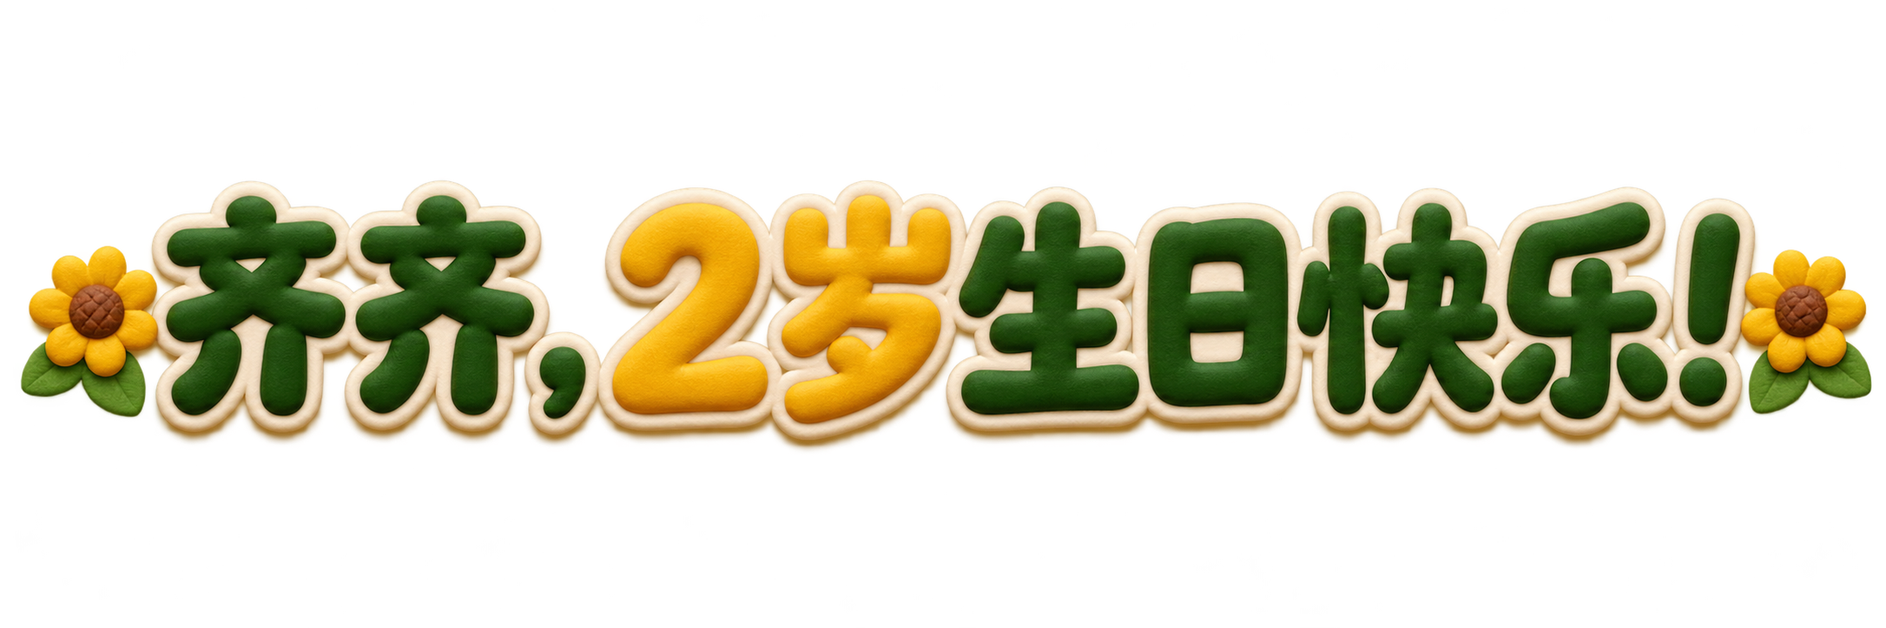
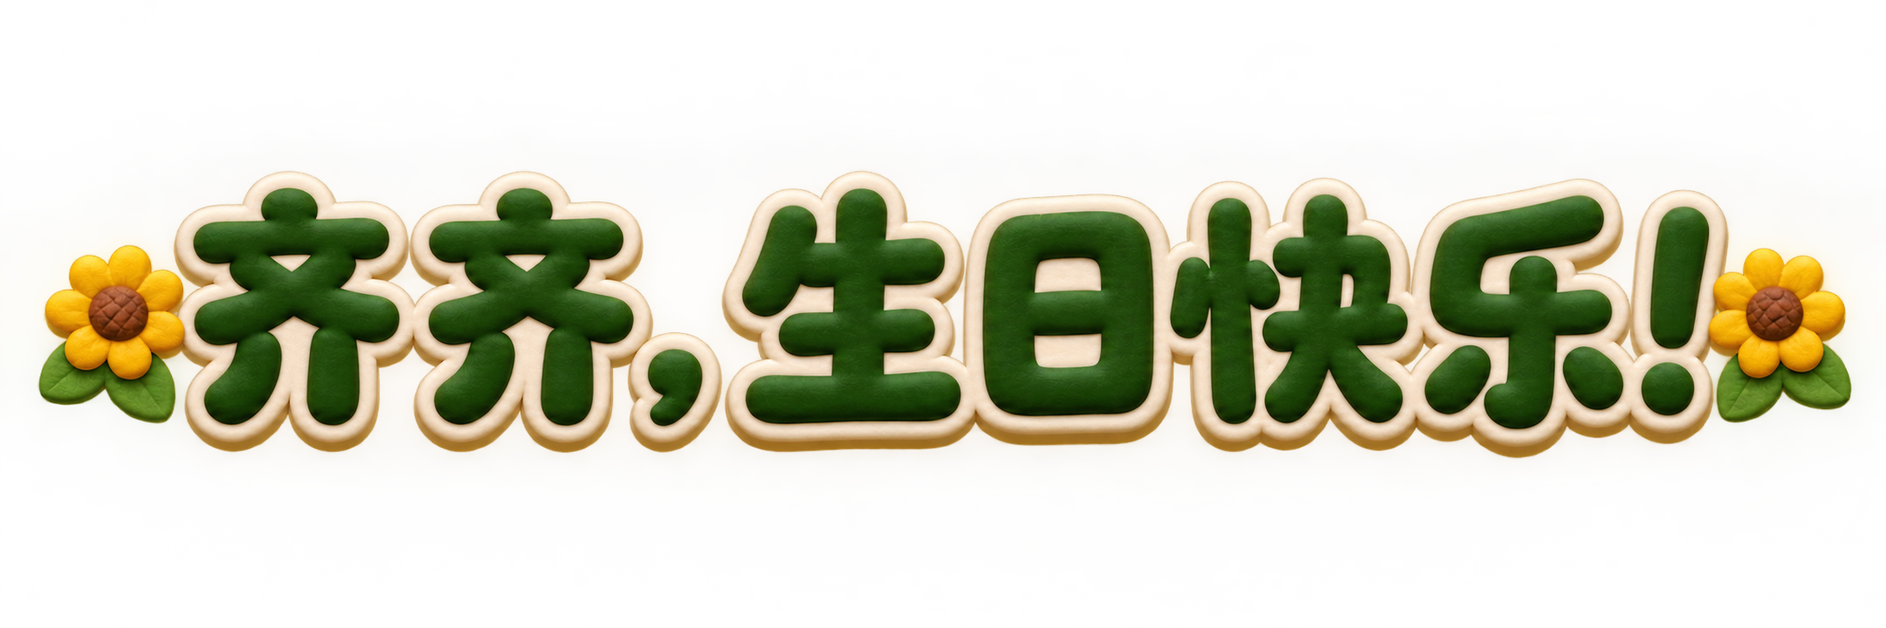
feat(assets, site, scripts): 添加标题资源，更新生日派对内容
新增相册标题、家庭互动标题两款艺术字资源，更新打包脚本的资源白名单；移除项目内年龄相关表述，统一主标题为“齐齐，生日快乐！”；优化图片使用WebP格式以减小加载体积；更新文档与相关脚本，完善语音功能说明。

Changed region(s): [[0.0, 0.2735, 1.0, 0.7293]]

diff --git a/styles.css b/styles.css
@@ -1,4 +1,4 @@
-:root{color-scheme:light;--ink:#275c4d;--paper:#fff9e9}*{box-sizing:border-box}html,body{width:100%;height:100%;margin:0;overflow:hidden}body{display:grid;place-items:center;background:#d5e4d7;color:var(--ink);font-family:"PingFang SC","Microsoft YaHei",sans-serif}button,a,select,input,summary{font:inherit;touch-action:manipulation;-webkit-tap-highlight-color:transparent}button,a{cursor:pointer}button{color:inherit}button:disabled{opacity:.45;cursor:default}[hidden]{display:none!important}button:focus-visible,a:focus-visible,summary:focus-visible,select:focus-visible{outline:3px solid #df9c31;outline-offset:3px}#stage{position:relative;width:min(100vw,177.7778vh);width:min(100vw,177.7778dvh);aspect-ratio:16/9;overflow:hidden;container-type:inline-size;background:#b2e2e5;outline:none;isolation:isolate}.scene{position:absolute;inset:0;overflow:hidden;background:#d5ecdf}#scene-game{background:url('assets/play-sky.webp') center/100% 100%}@keyframes cloud{to{transform:translateX(45px)}}@keyframes train{from{transform:translateX(-65px)}to{transform:translateX(65px)}}@keyframes spin{to{transform:rotate(360deg)}}.scene-heading{position:absolute;top:5%;left:10%;right:10%;text-align:center;z-index:2;pointer-events:none}.scene-heading p{font-size:1.5cqw;letter-spacing:.2em;margin:0 0 1.3%}.scene-heading h1{font-size:4.8cqw;line-height:1.2;margin:0;color:#28634a;text-shadow:0 .28cqw #fffdf0,0 -.18cqw #fffdf0,.18cqw 0 #fffdf0,-.18cqw 0 #fffdf0}.scene-heading #lyric,.scene-heading #hello{display:table;margin:2% auto 0;padding:.6cqw 2cqw;background:#fff5d4;border-radius:3cqw;font-size:2cqw;min-height:3.4cqw;color:#95682f;max-width:100%}.out .flame,.out @keyframes flicker{to{transform:scale(.96,1.06)}}.friends{position:absolute;left:6%;right:6%;top:37%;bottom:11%;display:grid;grid-template-columns:repeat(4,1fr);gap:2%}.friends button{position:relative;border:0;background:transparent;padding:0;display:flex;flex-direction:column;align-items:center;justify-content:flex-end;border-radius:4cqw}.friends img{width:100%;height:88%;object-fit:contain;filter:drop-shadow(0 1cqw 0 #42674415);pointer-events:none}.friends span{font-size:2cqw;font-weight:800;background:#fff6da;border-radius:3cqw;padding:.5cqw 2cqw;white-space:nowrap}.friends button.greet img{animation:greet .8s ease-in-out}.friends button:active{background:#ffffff25}@keyframes greet{0%,100%{transform:translateY(0)}40%{transform:translateY(-2cqw) rotate(-5deg)}70%{transform:rotate(4deg)}}#bubbles{position:absolute;inset:0;pointer-events:none}.bubble{position:absolute;color:#fff0ac;font-size:4cqw;animation:bubble 1.8s ease-out both;text-shadow:0 3px #d7ad5b}@keyframes bubble{from{transform:translate(-50%,-50%) scale(.4);opacity:0}20%{opacity:1}to{transform:translate(-50%,-160%) scale(1.1);opacity:0}}.album-bg{position:absolute;inset:0;background:#285b48e8}.empty{position:absolute;inset:5%;display:flex;flex-direction:column;align-items:center;justify-content:center;color:#fff4d9;text-align:center}.empty img{height:43%;aspect-ratio:1;object-fit:contain}.empty h1{font-size:3.5cqw;margin:1cqw 0}.empty p{font-size:1.7cqw;margin:.5cqw 0 2cqw}.primary{border:0;border-radius:14px;background:#f4ce76;color:#345b45;font-weight:800;padding:12px 20px;text-decoration:none;display:inline-flex;align-items:center;justify-content:center;min-height:44px}.empty .primary{font-size:clamp(12px,1.8cqw,26px);padding:1cqw 2cqw;min-height:36px}#photo-frame{position:absolute;inset:5% 8% 12%;margin:0;display:flex;align-items:center;justify-content:center;flex-direction:column}#photo-img{display:block;max-width:100%;max-height:90%;object-fit:contain;border:1cqw solid #fff9e9;border-radius:.5cqw;box-shadow:0 1cqw 3cqw #15312480;animation:photo-in .6s ease-out}#photo-caption{background:#fff9e9;color:#385943;font-size:2cqw;padding:.7cqw 2cqw;max-width:90%;text-align:center;white-space:nowrap;overflow:hidden;text-overflow:ellipsis}#photo-caption:empty{display:none}.album-count{position:absolute;right:3%;top:3%;color:#fff9dc;font-size:1.6cqw;background:#153f3280;padding:.5cqw 1cqw;border-radius:2cqw}#album-progress{position:absolute;left:15%;right:15%;bottom:6%;height:.6cqw;background:#ffffff25;border-radius:1cqw;overflow:hidden}#album-progress i{display:block;height:100%;background:#f4ce76;transition:width .4s}@keyframes photo-in{from{opacity:0;transform:scale(.98)}to{opacity:1;transform:scale(1)}}#controls{position:fixed;bottom:max(10px,env(safe-area-inset-bottom));left:50%;transform:translateX(-50%);z-index:20;max-width:calc(100vw - 20px);width:max-content;max-height:62vh;max-height:62dvh;overflow:auto;background:#fff9eef5;border:1px solid #45654328;box-shadow:0 8px 30px #31554825;padding:7px;border-radius:20px}.row{display:flex;gap:5px;flex-wrap:wrap;align-items:center;justify-content:center;max-width:760px}.row button,.row a{min-height:44px;padding:10px 13px;background:transparent;border:0;border-radius:12px;color:var(--ink);font-size:13px;text-decoration:none}.row button:hover,.row a:hover,summary:hover{background:#e6efda}.row button[aria-pressed=true]{background:#2f6d52;color:#fff9dc}.tabs{border-bottom:1px solid #dddcc5;padding-bottom:5px;margin-bottom:4px}.tabs button{font-weight:700}#blow,#empty-pick{background:#f6d47f}#sing{background:#e7efcd}summary{font-size:12px;text-align:center;padding:10px;border-radius:10px;cursor:pointer;min-height:38px;color:#66765d}#settings[open]{border-top:1px solid #dedcc5;margin-top:5px}.help{font-size:12px;text-align:center;line-height:1.8;color:#69775e;margin:10px}.album-settings{padding:8px;background:#eff0e2;border-radius:12px}.album-settings label{font-size:12px;padding:6px}.album-settings select{background:#fffaf0;border:1px solid #bec8a5;padding:8px;border-radius:8px}#mic-status{font-size:12px;padding:8px}#notice{position:fixed;z-index:40;left:50%;top:max(12px,env(safe-area-inset-top));transform:translateX(-50%);background:#285642ed;color:#fff9e9;padding:12px 20px;border-radius:14px;max-width:90vw;text-align:center;line-height:1.7;font-size:14px;pointer-events:none}#notice:empty{display:none}.portrait-note{display:none;position:fixed;top:calc(50% + 28.125vw);font-size:13px;line-height:1.8;text-align:center;color:#60745d;margin:14px}.clean .portrait-note{display:none}#confetti{position:absolute;inset:0;pointer-events:none;z-index:10}.confetti-piece{position:absolute;top:-5%;left:var(--x);width:.7%;height:1.8%;border-radius:3px;background:var(--color);animation:fall var(--duration) linear var(--delay) both;opacity:0}.confetti-piece:nth-child(3n){border-radius:50%}@keyframes fall{8%{opacity:.9}90%{opacity:.9}100%{opacity:0;transform:translate(var(--drift),var(--fall)) rotate(240deg)}}.paused *,.background-paused *{animation-play-state:paused!important}dialog{border:0;border-radius:24px;max-width:min(90vw,480px);background:#fff9e9;color:#285c46;padding:28px;box-shadow:0 20px 80px #173c4660}dialog::backdrop{background:#204f4666}dialog h2{font-size:23px;margin:0 0 15px}dialog p{font-size:15px;line-height:1.9}dialog .row .primary{background:#2f6d52;color:#fff9dc}.noscript{position:fixed;bottom:5px;background:#fff9e9;padding:14px;border-radius:14px;font-size:14px;z-index:25}@media(orientation:portrait){.portrait-note{display:block}#controls{width:calc(100vw - 20px);max-height:42dvh}.row button,.row a{padding:9px 11px}.empty img{height:34%}.empty p{font-size:2.7cqw}.empty h1{font-size:4.4cqw}}@media(max-height:460px){#controls{bottom:max(5px,env(safe-area-inset-bottom));padding:4px;max-height:70dvh}.row button{font-size:12px;padding:8px 10px}summary{padding:7px;min-height:32px}.help{margin:5px}.tabs{padding-bottom:2px;margin-bottom:2px}}@media(prefers-reduced-motion:reduce){*{animation:none!important;transition:none!important}#confetti,#bubbles{display:none}}
+:root{color-scheme:light;--ink:#275c4d;--paper:#fff9e9}*{box-sizing:border-box}html,body{width:100%;height:100%;margin:0;overflow:hidden}body{display:grid;place-items:center;background:#d5e4d7;color:var(--ink);font-family:"PingFang SC","Microsoft YaHei",sans-serif}button,a,select,input,summary{font:inherit;touch-action:manipulation;-webkit-tap-highlight-color:transparent}button,a{cursor:pointer}button{color:inherit}button:disabled{opacity:.45;cursor:default}[hidden]{display:none!important}button:focus-visible,a:focus-visible,summary:focus-visible,select:focus-visible{outline:3px solid #df9c31;outline-offset:3px}#stage{position:relative;width:min(100vw,177.7778vh);width:min(100vw,177.7778dvh);aspect-ratio:16/9;overflow:hidden;container-type:inline-size;background:#b2e2e5;outline:none;isolation:isolate}.scene{position:absolute;inset:0;overflow:hidden;background:#d5ecdf}#scene-game{background:url('assets/play-sky.webp') center/100% 100%}@keyframes cloud{to{transform:translateX(45px)}}@keyframes train{from{transform:translateX(-65px)}to{transform:translateX(65px)}}@keyframes spin{to{transform:rotate(360deg)}}.scene-heading{position:absolute;top:5%;left:10%;right:10%;text-align:center;z-index:2;pointer-events:none}.scene-heading p{font-size:1.5cqw;letter-spacing:.2em;margin:0 0 1.3%}.scene-heading h1{font-size:4.8cqw;line-height:1.2;margin:0;color:#28634a;text-shadow:0 .28cqw #fffdf0,0 -.18cqw #fffdf0,.18cqw 0 #fffdf0,-.18cqw 0 #fffdf0}.scene-heading #lyric,.scene-heading #hello{display:table;margin:2% auto 0;padding:.6cqw 2cqw;background:#fff5d4;border-radius:3cqw;font-size:2cqw;min-height:3.4cqw;color:#95682f;max-width:100%}.friends{position:absolute;left:6%;right:6%;top:37%;bottom:11%;display:grid;grid-template-columns:repeat(4,1fr);gap:2%}.friends button{position:relative;border:0;background:transparent;padding:0;display:flex;flex-direction:column;align-items:center;justify-content:flex-end;border-radius:4cqw}.friends img{width:100%;height:88%;object-fit:contain;filter:drop-shadow(0 1cqw 0 #42674415);pointer-events:none}.friends span{font-size:2cqw;font-weight:800;background:#fff6da;border-radius:3cqw;padding:.5cqw 2cqw;white-space:nowrap}.friends button.greet img{animation:greet .8s ease-in-out}.friends button:active{background:#ffffff25}@keyframes greet{0%,100%{transform:translateY(0)}40%{transform:translateY(-2cqw) rotate(-5deg)}70%{transform:rotate(4deg)}}#bubbles{position:absolute;inset:0;pointer-events:none}.bubble{position:absolute;color:#fff0ac;font-size:4cqw;animation:bubble 1.8s ease-out both;text-shadow:0 3px #d7ad5b}@keyframes bubble{from{transform:translate(-50%,-50%) scale(.4);opacity:0}20%{opacity:1}to{transform:translate(-50%,-160%) scale(1.1);opacity:0}}.album-bg{position:absolute;inset:0;background:#285b48e8}.empty{position:absolute;inset:5%;display:flex;flex-direction:column;align-items:center;justify-content:center;color:#fff4d9;text-align:center}.empty img{height:43%;aspect-ratio:1;object-fit:contain}.empty h1{font-size:3.5cqw;margin:1cqw 0}.empty p{font-size:1.7cqw;margin:.5cqw 0 2cqw}.primary{border:0;border-radius:14px;background:#f4ce76;color:#345b45;font-weight:800;padding:12px 20px;text-decoration:none;display:inline-flex;align-items:center;justify-content:center;min-height:44px}.empty .primary{font-size:clamp(12px,1.8cqw,26px);padding:1cqw 2cqw;min-height:36px}#photo-frame{position:absolute;inset:5% 8% 12%;margin:0;display:flex;align-items:center;justify-content:center;flex-direction:column}#photo-img{display:block;max-width:100%;max-height:90%;object-fit:contain;border:1cqw solid #fff9e9;border-radius:.5cqw;box-shadow:0 1cqw 3cqw #15312480;animation:photo-in .6s ease-out}#photo-caption{background:#fff9e9;color:#385943;font-size:2cqw;padding:.7cqw 2cqw;max-width:90%;text-align:center;white-space:nowrap;overflow:hidden;text-overflow:ellipsis}#photo-caption:empty{display:none}.album-count{position:absolute;right:3%;top:3%;color:#fff9dc;font-size:1.6cqw;background:#153f3280;padding:.5cqw 1cqw;border-radius:2cqw}#album-progress{position:absolute;left:15%;right:15%;bottom:6%;height:.6cqw;background:#ffffff25;border-radius:1cqw;overflow:hidden}#album-progress i{display:block;height:100%;background:#f4ce76;transition:width .4s}@keyframes photo-in{from{opacity:0;transform:scale(.98)}to{opacity:1;transform:scale(1)}}#controls{position:fixed;bottom:max(10px,env(safe-area-inset-bottom));left:50%;transform:translateX(-50%);z-index:20;max-width:calc(100vw - 20px);width:max-content;max-height:62vh;max-height:62dvh;overflow:auto;background:#fff9eef5;border:1px solid #45654328;box-shadow:0 8px 30px #31554825;padding:7px;border-radius:20px}.row{display:flex;gap:5px;flex-wrap:wrap;align-items:center;justify-content:center;max-width:760px}.row button,.row a{min-height:44px;padding:10px 13px;background:transparent;border:0;border-radius:12px;color:var(--ink);font-size:13px;text-decoration:none}.row button:hover,.row a:hover,summary:hover{background:#e6efda}.row button[aria-pressed=true]{background:#2f6d52;color:#fff9dc}.tabs{border-bottom:1px solid #dddcc5;padding-bottom:5px;margin-bottom:4px}.tabs button{font-weight:700}#blow,#empty-pick{background:#f6d47f}#sing{background:#e7efcd}summary{font-size:12px;text-align:center;padding:10px;border-radius:10px;cursor:pointer;min-height:38px;color:#66765d}#settings[open]{border-top:1px solid #dedcc5;margin-top:5px}.help{font-size:12px;text-align:center;line-height:1.8;color:#69775e;margin:10px}.album-settings{padding:8px;background:#eff0e2;border-radius:12px}.album-settings label{font-size:12px;padding:6px}.album-settings select{background:#fffaf0;border:1px solid #bec8a5;padding:8px;border-radius:8px}#mic-status{font-size:12px;padding:8px}#notice{position:fixed;z-index:40;left:50%;top:max(12px,env(safe-area-inset-top));transform:translateX(-50%);background:#285642ed;color:#fff9e9;padding:12px 20px;border-radius:14px;max-width:90vw;text-align:center;line-height:1.7;font-size:14px;pointer-events:none}#notice:empty{display:none}.portrait-note{display:none;position:fixed;top:calc(50% + 28.125vw);font-size:13px;line-height:1.8;text-align:center;color:#60745d;margin:14px}.clean .portrait-note{display:none}#confetti{position:absolute;inset:0;pointer-events:none;z-index:10}.confetti-piece{position:absolute;top:-5%;left:var(--x);width:.7%;height:1.8%;border-radius:3px;background:var(--color);animation:fall var(--duration) linear var(--delay) both;opacity:0}.confetti-piece:nth-child(3n){border-radius:50%}@keyframes fall{8%{opacity:.9}90%{opacity:.9}100%{opacity:0;transform:translate(var(--drift),var(--fall)) rotate(240deg)}}.paused *,.background-paused *{animation-play-state:paused!important}dialog{border:0;border-radius:24px;max-width:min(90vw,480px);background:#fff9e9;color:#285c46;padding:28px;box-shadow:0 20px 80px #173c4660}dialog::backdrop{background:#204f4666}dialog h2{font-size:23px;margin:0 0 15px}dialog p{font-size:15px;line-height:1.9}dialog .row .primary{background:#2f6d52;color:#fff9dc}.noscript{position:fixed;bottom:5px;background:#fff9e9;padding:14px;border-radius:14px;font-size:14px;z-index:25}@media(orientation:portrait){.portrait-note{display:block}#controls{width:calc(100vw - 20px);max-height:42dvh}.row button,.row a{padding:9px 11px}.empty img{height:34%}.empty p{font-size:2.7cqw}.empty h1{font-size:4.4cqw}}@media(max-height:460px){#controls{bottom:max(5px,env(safe-area-inset-bottom));padding:4px;max-height:70dvh}.row button{font-size:12px;padding:8px 10px}summary{padding:7px;min-height:32px}.help{margin:5px}.tabs{padding-bottom:2px;margin-bottom:2px}}@media(prefers-reduced-motion:reduce){*{animation:none!important;transition:none!important}#confetti,#bubbles{display:none}}
 
 /* 生图素材与原有相册、游戏保持独立，避免把画面缩放成旧 SVG 蛋糕尺寸。 */
 #scene-home{background:#b4e0ea}
@@ -9,12 +9,12 @@
 .friends img{height:84%;filter:drop-shadow(0 .7cqw .8cqw #31554818)}
 .empty img{object-fit:contain}
 
-/* 生图场景共用布局；所有插画、艺术字和火苗均为生成的 PNG。 */
+/* 生图场景共用布局；所有插画、艺术字和火苗均来自生图素材。 */
 .stage,#stage{container-type:inline-size}
 .generated-scene{position:absolute;inset:0;overflow:hidden;background:#fff2d9}
 .scene-art{position:absolute;inset:0;width:100%;height:100%;object-fit:fill;pointer-events:none}
 .birthday-heading{position:absolute;left:16%;top:-5%;width:68%;margin:0;z-index:2;line-height:0;pointer-events:none}
-.title-art{display:block;width:100%;height:auto;animation:title-arrive 1.2s ease-out both}
+.title-art{display:block;width:100%;height:auto;animation:title-arrive 1.2s ease-out both,title-float 5s ease-in-out 1.2s infinite}
 .scene-note{position:absolute;bottom:2%;left:50%;transform:translateX(-50%);max-width:82%;width:max-content;margin:0;padding:.45cqw 1.6cqw;border-radius:3cqw;background:#fff7e8e8;color:#416545;font-size:1.3cqw;line-height:1.6;text-align:center;letter-spacing:.1em;z-index:3}
 .flame-layer{position:absolute;left:47.45%;top:24.4%;width:5.4%;height:9.6%;object-fit:contain;transform-origin:50% 94%;animation:candle-breathe 2.8s ease-in-out infinite alternate;pointer-events:none;z-index:1}
 @keyframes title-arrive{from{opacity:0;transform:translateY(-8px) scale(.97)}to{opacity:1;transform:none}}
@@ -42,3 +42,13 @@
 @keyframes photo-soft-in{from{opacity:.45}to{opacity:1}}
 .paused #photo-img,.background-paused #photo-img{animation:none!important}
 @media(prefers-reduced-motion:reduce){#photo-img.photo-enter{animation:none!important}}
+
+/* 艺术字轻轻起伏；暂停、合影和减少动态效果时保持静止。 */
+@keyframes title-float{0%,100%{transform:translateY(0)}50%{transform:translateY(-.22cqw)}}
+#scene-game .scene-heading{top:-2%;left:18%;right:18%}
+.scene-heading #hello{margin:-1.2cqw auto 0;font-size:1.7cqw}
+.empty{inset:4% 8% 15%;justify-content:center;gap:.5cqw}
+.empty>img{height:38%;flex-shrink:1;min-height:0}
+.empty .album-heading{width:78%;margin:-2cqw 0 -1cqw;line-height:0}
+.empty .album-heading img{display:block;width:100%;height:auto;aspect-ratio:auto}
+.empty .privacy-note{margin:0 0 .7cqw;font-size:clamp(10px,1.2cqw,18px)!important}

diff --git a/index.html b/index.html
@@ -1,24 +1,24 @@
 <!doctype html>
 <html lang="zh-CN">
-<head><meta charset="utf-8"><meta name="viewport" content="width=device-width,initial-scale=1,viewport-fit=cover"><meta name="theme-color" content="#d5ecdf"><meta name="description" content="齐齐的两岁生日派对：农场伙伴、成长相册和生日蛋糕，专为手机横屏与大屏展示准备。"><title>齐齐，2岁生日快乐！</title><link rel="icon" href="assets/little-dragon.webp" type="image/webp"><link rel="stylesheet" href="styles.css"><script src="audio.js" defer></script><script src="voice.js" defer></script><script src="app.js" defer></script></head>
+<head><meta charset="utf-8"><meta name="viewport" content="width=device-width,initial-scale=1,viewport-fit=cover"><meta name="theme-color" content="#d5ecdf"><meta name="description" content="齐齐的生日派对：农场伙伴、成长相册和生日蛋糕，专为手机横屏与大屏展示准备。"><title>齐齐，生日快乐！</title><link rel="icon" href="assets/little-dragon.webp" type="image/webp"><link rel="stylesheet" href="styles.css"><script src="audio.js" defer></script><script src="voice.js" defer></script><script src="app.js" defer></script></head>
 <body>
-<main id="stage" tabindex="-1" aria-label="齐齐的两岁生日派对">
-<section id="scene-home" class="scene" aria-label="快乐农场"><img fetchpriority="high" class="scene-art" src="assets/party-family-final.webp" alt="公鸡爸爸、鼠妈妈和小龙齐齐的生日小世界" width="1671" height="941" decoding="async"><h1 class="birthday-heading"><img class="title-art" src="assets/birthday-title.webp" alt="齐齐，2岁生日快乐！" width="2172" height="724"></h1><p class="scene-note">爸爸开车，妈妈陪伴，齐齐快乐长大。</p></section>
+<main id="stage" tabindex="-1" aria-label="齐齐的生日派对">
+<section id="scene-home" class="scene" aria-label="快乐农场"><img fetchpriority="high" class="scene-art" src="assets/party-family-final.webp" alt="公鸡爸爸、鼠妈妈和小龙齐齐的生日小世界" width="1671" height="941" decoding="async"><h1 class="birthday-heading"><img class="title-art" src="assets/birthday-title.webp" alt="齐齐，生日快乐！" width="2172" height="724"></h1></section>
 <section id="scene-album" class="scene" hidden aria-label="成长相册">
-<div class="album-bg"></div><div id="album-empty" class="empty"><img src="assets/little-dragon.webp" alt="小龙等你一起看照片"><h1>小小的你，大大的快乐</h1><p>选一些照片，一起看看齐齐的成长吧。</p><p class="privacy-note">只在当前浏览器临时使用，不会上传；刷新后需重选。</p><button class="primary" id="empty-pick">选择成长照片</button></div>
+<div class="album-bg"></div><div id="album-empty" class="empty"><img src="assets/little-dragon.webp" alt="小龙等你一起看照片"><h1 class="album-heading"><img class="title-art" src="assets/album-title.webp" alt="齐齐的成长时光" width="2172" height="724"></h1><p class="privacy-note">照片不上传，刷新后需重选。</p><button class="primary" id="empty-pick">选择成长照片</button></div>
 <figure id="photo-frame" hidden><img id="photo-img" alt=""><figcaption id="photo-caption"></figcaption></figure><div id="import-status" class="import-status" hidden role="status" aria-live="polite"><span id="import-label"></span><button id="cancel-import">取消导入</button></div><div id="album-count" class="album-count" hidden></div><div id="album-progress" hidden><i></i></div>
 </section>
 <section id="scene-cake" class="scene generated-scene" hidden aria-label="生日蛋糕">
-<div id="birthday-cake"><img class="scene-art" src="assets/cake-family.webp" alt="公鸡爸爸、鼠妈妈和小龙齐齐的生日小世界" width="1671" height="941" decoding="async"><img  class="flame-layer" src="assets/candle-flame.webp" alt="" aria-hidden="true"></div><h1 class="birthday-heading"><img class="title-art" src="assets/birthday-title.webp" alt="齐齐，2岁生日快乐！" width="2172" height="724"></h1>
-<h2 id="cake-title" class="sr-only" aria-live="polite">齐齐，生日快乐！</h2><p id="lyric" class="scene-note" aria-live="polite">许一个小小的愿望吧</p>
+<div id="birthday-cake"><img class="scene-art" src="assets/cake-family.webp" alt="公鸡爸爸、鼠妈妈和小龙齐齐的生日小世界" width="1671" height="941" decoding="async"><img  class="flame-layer" src="assets/candle-flame.webp" alt="" aria-hidden="true"></div><h1 class="birthday-heading"><img class="title-art" src="assets/birthday-title.webp" alt="齐齐，生日快乐！" width="2172" height="724"></h1>
+<h2 id="cake-title" class="sr-only" aria-live="polite">齐齐，生日快乐！</h2><p id="lyric" class="scene-note" aria-live="polite">许个愿吧</p>
 </section>
 <section id="scene-game" class="scene" hidden aria-label="和生肖家人玩">
-<div class="scene-heading"><p>没有输赢，每一次发现都很棒</p><h1>我们一家，一起玩！</h1><div id="hello" aria-live="polite">轻轻点一下，看看谁来打招呼</div></div>
+<div class="scene-heading"><h1><img class="title-art" src="assets/family-title.webp" alt="一家人，一起玩！" width="2172" height="724"></h1><div id="hello" aria-live="polite">点点小伙伴</div></div>
 <div class="friends"><button data-friend="dragon" aria-label="和小龙打招呼"><img src="assets/little-dragon.webp" alt=""><span>小龙齐齐</span></button><button data-friend="mouse" aria-label="和鼠妈妈打招呼"><img loading="lazy" src="assets/little-mouse.webp" alt=""><span>鼠妈妈</span></button><button data-friend="rooster" aria-label="和公鸡爸爸打招呼"><img loading="lazy" src="assets/little-rooster.webp" alt=""><span>公鸡爸爸</span></button><button data-friend="tractor" aria-label="和拖拉机打招呼"><img loading="lazy" src="assets/red-tractor.webp" alt=""><span>拖拉机</span></button></div>
 <div id="bubbles" aria-hidden="true"></div>
 </section><div id="confetti" aria-hidden="true"></div>
 </main>
-<p class="portrait-note">把手机横过来，和小龙一起出发<br>可使用手机的屏幕镜像连接电视</p>
+<p class="portrait-note">横过手机，画面更好看<br>用屏幕镜像连接电视</p>
 <nav id="controls" aria-label="生日派对控制">
 <div class="row tabs" aria-label="选择场景"><button data-scene="home" aria-pressed="true">快乐农场</button><button data-scene="album" aria-pressed="false">成长相册</button><button data-scene="cake" aria-pressed="false">生日蛋糕</button><button data-scene="game" aria-pressed="false">点点玩</button></div>
 <div class="row" id="album-tools" hidden><button id="pick">选择照片</button><button id="previous" disabled aria-label="上一张照片">← 上一张</button><button id="album-toggle" disabled>播放相册</button><button id="next" disabled aria-label="下一张照片">下一张 →</button></div>
@@ -30,7 +30,7 @@
 <div class="voice-settings">
 <label><input id="spoken" type="checkbox" checked> 角色说话</label><span id="voice-status"></span>
 <div class="row"><button id="pick-mom">选择妈妈录音</button><button id="pick-dad">选择爸爸录音</button><button id="pick-child">选择齐齐录音</button><button id="clear-voices" disabled>清除家人录音</button></div>
-<p class="help">可以提前用手机录一句“齐齐，妈妈爱你”等短祝福，再选择音频文件。录音只在本页临时播放，不上传。未选录音时使用设备已有的离线中文语音或轻柔音效。</p>
+<p class="help">选择一段家人祝福，点角色就能听见。录音不上传，刷新后需重选；未选择时使用设备离线语音或音效。</p>
 </div>
 <div class="row" id="mic-tools" hidden><button id="mic-toggle" aria-pressed="false">开启吹气感应</button><span id="mic-status" role="status"></span></div>
 <p class="help">隐藏后轻点空白处恢复操作；Esc 恢复，1–4 切换场景。<br>照片只在本机展示，刷新后需重选。声音默认关闭。</p>

diff --git a/app.js b/app.js
@@ -16,7 +16,7 @@ function clearEffects(){clearTimeout(confettiTimer);$('confetti').replaceChildre
 function frozen(){return paused||photoMode||document.hidden;}
 function showControls(visible){controls.hidden=!visible;document.body.classList.toggle('clean',!visible||photoMode);if(!visible){$('settings').open=false;$('notice').textContent='';stage.focus({preventScroll:true});}}
 function celebrate(){clearEffects();if(frozen()||reduced.matches)return;const colors=['#f4c85f','#6ebc93','#efaa86','#84c9df'];for(let i=0;i<44;i++){const el=document.createElement('i');el.className='confetti-piece';const values={'--x':`${(i*37)%100}%`,'--color':colors[i%4],'--duration':`${5+i%4*.4}s`,'--delay':`${i%7*.11}s`,'--drift':`${(i%2?1:-1)*(15+i%40)}px`,'--fall':`${stage.clientHeight*1.12}px`};for(const [k,v]of Object.entries(values))el.style.setProperty(k,v);$('confetti').append(el);}confettiTimer=setTimeout(clearEffects,7600);}
-function stopSong(){voice.stop();greetingRun++;songRun++;songTimers.forEach(clearTimeout);songTimers=[];singing=false;audio.stopSong();$('sing').textContent='♫ 一起唱生日歌';if(mode==='cake')$('lyric').textContent=blown?'愿所有美好，陪你慢慢长大':'许一个小小的愿望吧';}
+function stopSong(){voice.stop();greetingRun++;songRun++;songTimers.forEach(clearTimeout);songTimers=[];singing=false;audio.stopSong();$('sing').textContent='♫ 一起唱生日歌';if(mode==='cake')$('lyric').textContent=blown?'齐齐，生日快乐！':'许个愿吧';}
 function updateSound(){ $('sound').textContent=`声音：${sound?'开':'关'}`;$('sound').setAttribute('aria-pressed',String(sound));$('bgm').muted=!sound;voice.setEnabled(sound); }
 async function enableSound(value){const run=++soundRun;sound=value;updateSound();try{await audio.setEnabled(value);}catch{if(run!==soundRun)return sound;sound=false;updateSound();tell('此浏览器暂时无法播放声音，仍可继续玩。');}if(run!==soundRun)return sound;if(!sound){stopSong();wantsMusic=false;musicRun++;$('bgm').pause();updateMusic();}return sound;}
 $('sound').onclick=async()=>{await enableSound(!sound);};
@@ -82,7 +82,7 @@ $('pick-music').onclick=()=>$('music-file').click();$('music-file').onchange=e=>
 $('music-toggle').onclick=async()=>{if(!musicURL)return;if(wantsMusic){wantsMusic=false;}else{if(!await enableSound(true))return;wantsMusic=true;}syncMusic();};$('bgm').onerror=()=>{wantsMusic=false;updateMusic();tell('这段音乐无法播放，请尝试 MP3 或其他文件。');};
 window.addEventListener('dragover',e=>e.preventDefault());window.addEventListener('drop',e=>{e.preventDefault();if(e.dataTransfer?.files.length)importPhotos(e.dataTransfer.files);});
 // 蛋糕由大人控制；唱歌可停止，随时可吹灭，不强制等待。
-function updateCake(){ $('birthday-cake').classList.toggle('out',blown);$('cake-title').textContent=blown?'耶！齐齐两岁啦！':'齐齐，生日快乐！';$('lyric').textContent=blown?'愿所有美好，陪你慢慢长大':'许一个小小的愿望吧';$('blow').hidden=blown;$('relight').hidden=!blown;}
+function updateCake(){ $('birthday-cake').classList.toggle('out',blown);$('cake-title').textContent=blown?'齐齐，生日快乐！':'齐齐，生日快乐！';$('lyric').textContent=blown?'齐齐，生日快乐！':'许个愿吧';$('blow').hidden=blown;$('relight').hidden=!blown;}
 async function sing(){if(singing){stopSong();return;}if(frozen()){tell('先退出合影或继续动画，再一起唱歌吧。');return;}stopMic();const run=++songRun;singing=true;$('sing').textContent='停止生日歌';if(!await enableSound(true)||run!==songRun||mode!=='cake'||frozen())return;try{const song=await audio.song();if(run!==songRun||mode!=='cake')return;if(!song){stopSong();return;}const lines=['祝你生日快乐','祝你生日快乐','祝齐齐生日快乐','祝你生日快乐'];song.lines.forEach((t,i)=>songTimers.push(setTimeout(()=>{if(run===songRun)$('lyric').textContent=lines[i];},t*1000)));songTimers.push(setTimeout(()=>{if(run===songRun){stopSong();$('lyric').textContent=blown?'齐齐，生日快乐！':'许个愿，吹蜡烛吧！';}},song.total*1000));}catch{stopSong();tell('暂时无法播放生日歌，可以大家一起唱。');}}
 function blow(){if(mode!=='cake'||blown)return;stopSong();stopMic();blown=true;updateCake();celebrate();audio.effect('dragon').catch(()=>{});showControls(false);}
 $('sing').onclick=sing;$('blow').onclick=blow;$('relight').onclick=()=>{stopSong();stopMic();blown=false;clearEffects();updateCake();};
@@ -104,7 +104,7 @@ $('clear-voices').onclick=()=>voice.clearClips();
 // 无分数、无失败的因果互动，短音效节流，图形与文字同时回应。
 const greetings={dragon:'小龙说：齐齐，生日快乐！',mouse:'鼠妈妈说：齐齐，妈妈爱你！',rooster:'公鸡爸爸说：嘟嘟，带齐齐出发！',tractor:'拖拉机说：嘟嘟，快乐出发！'};
 let lastGreeting=0;
-document.querySelectorAll('[data-friend]').forEach(button=>button.onclick=()=>{if(frozen())return;const now=performance.now();if(now-lastGreeting<450)return;lastGreeting=now;const kind=button.dataset.friend;$('hello').textContent=greetings[kind];clearTimeout(helloTimer);helloTimer=setTimeout(()=>$('hello').textContent='轻轻点一下，看看谁来打招呼',4500);button.classList.remove('greet');void button.offsetWidth;button.classList.add('greet');audio.stopEffects();const greeting=++greetingRun;voice.speak(kind,greetings[kind].replace(/^[^：]*：/, '')).then(spoken=>{if(!spoken&&greeting===greetingRun&&mode==='game'&&!frozen())audio.effect(kind).catch(()=>{});});if(!reduced.matches){const star=document.createElement('span');star.className='bubble';star.textContent=kind==='dragon'?'♥':'✦';star.style.left=`${18+Array.from(button.parentNode.children).indexOf(button)*22}%`;star.style.top='43%';$('bubbles').append(star);setTimeout(()=>star.remove(),1900);if($('bubbles').children.length>8)$('bubbles').firstElementChild.remove();}});
+document.querySelectorAll('[data-friend]').forEach(button=>button.onclick=()=>{if(frozen())return;const now=performance.now();if(now-lastGreeting<450)return;lastGreeting=now;const kind=button.dataset.friend;$('hello').textContent=greetings[kind];clearTimeout(helloTimer);helloTimer=setTimeout(()=>$('hello').textContent='点点小伙伴',4500);button.classList.remove('greet');void button.offsetWidth;button.classList.add('greet');audio.stopEffects();const greeting=++greetingRun;voice.speak(kind,greetings[kind].replace(/^[^：]*：/, '')).then(spoken=>{if(!spoken&&greeting===greetingRun&&mode==='game'&&!frozen())audio.effect(kind).catch(()=>{});});if(!reduced.matches){const star=document.createElement('span');star.className='bubble';star.textContent=kind==='dragon'?'♥':'✦';star.style.left=`${18+Array.from(button.parentNode.children).indexOf(button)*22}%`;star.style.top='43%';$('bubbles').append(star);setTimeout(()=>star.remove(),1900);if($('bubbles').children.length>8)$('bubbles').firstElementChild.remove();}});
 // 展示工具：全屏和屏幕常亮均有失败回退。
 function fullscreenElement(){return document.fullscreenElement||document.webkitFullscreenElement;}
 function updateFullscreen(){const active=Boolean(fullscreenElement());$('fullscreen').textContent=active?'退出全屏':'全屏展示';$('fullscreen').setAttribute('aria-pressed',String(active));if(!active&&childMode)exitChildMode();else showControls(!active);}

diff --git a/scripts/package_site.py b/scripts/package_site.py
@@ -4,7 +4,7 @@ from zipfile import ZipFile, ZIP_DEFLATED
 import shutil
 ROOT=Path(__file__).resolve().parent.parent
 PAGES=['index.html','styles.css','app.js','audio.js','voice.js','.nojekyll']
-ASSETS=['little-dragon.webp','little-mouse.webp','little-rooster.webp','red-tractor.webp','birthday-title.webp','candle-flame.webp','party-family-final.webp','cake-family.webp','play-sky.webp','birthday-background-4k.png','birthday-cake-4k.png']
+ASSETS=['little-dragon.webp','little-mouse.webp','little-rooster.webp','red-tractor.webp','birthday-title.webp','album-title.webp','family-title.webp','candle-flame.webp','party-family-final.webp','cake-family.webp','play-sky.webp','birthday-background-4k.png','birthday-cake-4k.png']
 FILES=PAGES+['assets/'+name for name in ASSETS]
 if __name__=='__main__':
  dist=ROOT/'dist'

diff --git a/README.md b/README.md
@@ -1,4 +1,4 @@
-# 齐齐的两岁生日派对 🚜🐲
+# 齐齐的生日派对 🚜🐲
 
 一个入口、一套生图视觉，集合生日迎宾、成长相册、生日歌、吹蜡烛、亲子互动和合影。打开 `index.html` 就进入生日主画面，不再需要选择版本。
 
@@ -7,9 +7,9 @@
 - 展示名：**齐齐**，两周岁，生肖龙；戴皇冠的友善中国小龙代表宝宝。
 - 妈妈生肖鼠：奶油色小老鼠、绿色裙子和格纹蝴蝶结。
 - 爸爸生肖鸡：金黄色公鸡、红鸡冠、绿色尾羽；**爸爸开拖拉机，妈妈和齐齐坐在拖斗里**。
-- 主标题：**齐齐，2岁生日快乐！**，使用透明底生图艺术字，带轻柔入场动效。
+- 主标题：**齐齐，生日快乐！**，使用透明底生图艺术字，带轻柔入场和缓慢起伏动效。相册与亲子互动标题也使用同风格生图艺术字；年龄只通过画面数字与蜡烛表达。
 
-全站插画、角色、艺术字、图标和独立火苗均使用生图 PNG。旧的三个版本目录、版本选择页、全部 SVG 文件和矢量插画生成脚本已移除。按钮、歌词、文件名字幕与操作提示使用网页文字，便于阅读和实时更新。
+全站插画、角色、艺术字、图标和独立火苗均来自生图 PNG，网页使用保留透明度的 WebP 减少加载体积。旧的三个版本目录、版本选择页、全部 SVG 文件和矢量插画生成脚本已移除。按钮、歌词、文件名字幕与操作提示使用网页文字，便于阅读和实时更新。
 
 ## 使用方式
 
@@ -30,18 +30,20 @@
 | 生日蛋糕 | 一家三口围着蛋糕；生日歌、同步歌词、手动吹灭与重新点亮 |
 | 点点玩 | 点击小龙齐齐、鼠妈妈、公鸡爸爸和小拖拉机，获得招呼文字与轻柔反馈 |
 
-「撒花庆祝」可在任一场景手动触发；「合影模式」暂停动画、相册及音频，清除彩纸并隐藏按钮。轻点空白处只恢复操作栏，退出合影才恢复之前的展示状态。主插画保持稳定，不再模拟图片内部车轮或风车转动；动效用于艺术字入场、火苗、彩纸和互动角色。
+「撒花庆祝」可在任一场景手动触发；「合影模式」暂停动画、相册及音频，清除彩纸并隐藏按钮。轻点空白处只恢复操作栏，退出合影才恢复之前的展示状态。主插画保持稳定，不再模拟图片内部车轮或风车转动；动效用于艺术字入场与轻轻起伏、火苗、彩纸和互动角色；系统减少动态效果、合影或暂停时停止。
+
+「给齐齐玩」直接进入互动并隐藏家长控制；轻点空白处不会打开菜单。长按右下角「家长 · 长按恢复」约一秒，或按 Esc 恢复操作。
 
 **键盘：**Esc 恢复操作栏，H 显示/隐藏按钮，1–4 切场景；相册方向键翻页、空格播放/暂停；蛋糕场景空格吹蜡烛。点点玩中的角色按钮会继续互动，找回菜单时请点空白处。
 
 ## 照片、音乐与隐私
 
-- 照片和音乐仅使用浏览器本地文件地址，不上传、不写入仓库，不保存到服务器。刷新或关闭网页后需要重新选择。
+- 照片、音乐和家人录音仅使用浏览器本地文件地址，不上传、不写入仓库，不保存到服务器。刷新或关闭网页后需要重新选择。
 - 照片按文件名自然排序，默认每张 8 秒，可改 5 或 12 秒。可用 `01-刚出生.jpg` 等命名控制顺序。
-- 最多 120 张，每张不超过 25 MB，总量不超过 250 MB，单张不超过 5000 万像素；逐张解码，损坏或超限文件会跳过。整批失败时保留已有相册。
-- 建议使用 JPG/PNG。HEIC/HEIF 的显示取决于设备；不支持时请先转换格式。
+- 最多 120 张，每张不超过 25 MB，总量不超过 250 MB，单张不超过 5000 万像素；逐张解码，损坏或超限文件会跳过。导入时显示进度，可以取消；取消或整批失败时保留已有相册。
+- 支持 JPG、PNG、WebP、AVIF、BMP 等静态照片，不导入 GIF 动图。建议使用 JPG/PNG。HEIC/HEIF 的显示取决于设备；不支持时请先转换格式。
 - 声音默认关闭，生日歌由主动点击开始，是本地合成伴奏，无网络音频。音乐只在相册场景播放；切后台、进入合影或关闭声音会停止或暂停相关声音。
-- 游戏音效为柔和的合成短音，不是人物录音。
+- 角色可使用设备已有的离线中文语音，缺少可用语音时播放柔和短音。也可选择妈妈、爸爸、齐齐的音频文件替代角色语音；每段不超过 10 MB，播放最多 12 秒。连续点击会停止上一段，避免重叠；关闭「角色说话」可只保留音效。录音不上传，刷新后需重选。
 
 ## 吹蜡烛
 
@@ -67,12 +69,15 @@ python3 -m http.server 8080 --bind 0.0.0.0
 index.html                 唯一入口：四个场景及控制栏
 styles.css                 响应式布局、艺术字/火苗/角色动效
 app.js                     场景、相册、生日仪式、全屏、常亮
-audio.js                  本地合成生日歌和短音效
+audio.js                   本地合成生日歌和短音效
+voice.js                   离线中文语音与临时家人录音
 assets/                    最终生图素材与两张备用图
 scripts/image-prompts.json 内置 image_gen 提示词和设计记录（不发布）
 scripts/export_background.py 备用图排版导出（需要系统 Cairo）
 scripts/check_play.cjs      交互/相册/全屏/生命周期回归
 scripts/check_audio.cjs     音频启用、停止与后台静音检查
+scripts/check_voice.cjs     本地语音、录音替换、连续点击与资源释放
+scripts/optimize_assets.c   生成保留透明度的运行时 WebP
 scripts/check_site.py       路径、昵称、PNG、无旧版本/SVG检查
 scripts/package_site.py     单一版本白名单打包
 .github/workflows/pages.yml GitHub Pages 检查与发布工作流
@@ -84,12 +89,13 @@ scripts/package_site.py     单一版本白名单打包
 
 ```bash
 node scripts/check_audio.cjs
+node scripts/check_voice.cjs
 node scripts/check_play.cjs
 python3 scripts/check_site.py
 python3 scripts/package_site.py
 ```
 
-替换最终生图后，运行 `python3 scripts/export_background.py` 更新备用图；若修改标题或火苗位置，保持该脚本与 `styles.css` 的排版坐标一致。然后重新检查、打包。
+替换最终生图后，先更新对应的 WebP，再运行 `python3 scripts/export_background.py` 更新备用图；若修改标题或火苗位置，保持该脚本与 `styles.css` 的排版坐标一致。然后重新检查、打包。
 
 `dist/` 是发布目录，包含网页、运行资源和离线包；输出目录和 ZIP 不加入 Git。运行时图片与脚本使用相对路径，支持 GitHub Pages 仓库子路径。只发布白名单文件，不包含提示词、开发脚本、私人照片或未使用的生图迭代。
 
